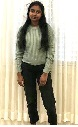
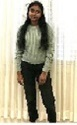
added comments and resized image

diff --git a/ShriyaRudrashetty.java b/ShriyaRudrashetty.java
@@ -1,20 +1,19 @@
-
+ 
 import greenfoot.*; 
 import java.net.*; 
 import java.awt.*;// (World, Actor, GreenfootImage, Greenfoot and MouseInfo)
 
 /**
- * The KilgoreTrout class can be used as a model for your own class that represents you and your seating location in AP CSA
+ * The ShriyaRudrashetty class represents Shriya Rudrashetty and her seating location. It included an animation and a lesson.
  * 
- * @author Mr. Kaehms
- * @version 2.0 Aug 13, 2019
- * @version 3.0 July 21, 2020
+ * @author Shriya Rudrashetty
+ * @version 2.0 8/7/2020
  */
 public class ShriyaRudrashetty extends Student implements SpecialInterestOrHobby
 {
 
     /**
-     * Constructor for the KilgoreTrout class.
+     * Constructor for the ShriyaRudrashetty class.
      * Constructors are special methods with the same exact name as the class name.  
      * Constructors to not have return types.
      * Constructors can be overloaded. This means we can call a constructor with different sets of parameter
@@ -26,27 +25,31 @@ public class ShriyaRudrashetty extends Student implements SpecialInterestOrHobby
      * 
      */
     public ShriyaRudrashetty(String f, String l, int r, int s) {
-        firstName=f;
+        //parameters
+        firstName=f; 
         lastName=l;
         myRow=r;
         mySeat=s;
-        portraitFile=f.toLowerCase()+l.toLowerCase()+".JPG";    // Make sure to name your image files firstlast.jpg, all lowercase!!!
-        standingFile=firstName.toLowerCase()+ lastName.toLowerCase()+"-standing.JPG";
-        soundFile=f.toLowerCase()+l.toLowerCase()+".wav";  // Make sure to name your sound files firstlast.wav, all lowercase!!!
-        setImage(portraitFile);
-        sitting=true;
+        portraitFile=f.toLowerCase()+l.toLowerCase()+".JPG"; //this is to find the correct image for the portrait   
+        standingFile=firstName.toLowerCase()+ lastName.toLowerCase()+"-standing.JPG"; //find the correct standing up image
+        soundFile=f.toLowerCase()+l.toLowerCase()+".wav"; //find the correct sound file to play
+        setImage(portraitFile); //set the image to the portrait file
+        sitting=true; //sitting is set to true (so don't show standing up image yet)
     }
     /**
      * Default constructor, if you don't pass in a name and seating location
      * Pay attention to how the row and seat variables set the location of the image.  1,1 is the first cell in the upper left
      * of the classroom.
+     * My image is in row 3, seat 3
      */
     public ShriyaRudrashetty() {
+        //string for the first and last name
         firstName="Shriya";
         lastName="Rudrashetty";
-        myRow=1;
-        mySeat=2;
-       // imgFile=firstName.toLowerCase()+ lastName.toLowerCase()+".jpg";
+        //set row and seat number
+        myRow=3;
+        mySeat=3;
+       // based on the first and last name strings above, this helps find the correct image/sounds files which follow the same format
        portraitFile=firstName.toLowerCase()+ lastName.toLowerCase()+".JPG";
        standingFile=firstName.toLowerCase()+ lastName.toLowerCase()+"-standing.JPG";
        soundFile=firstName.toLowerCase()+ lastName.toLowerCase()+".wav";
@@ -55,30 +58,25 @@ public class ShriyaRudrashetty extends Student implements SpecialInterestOrHobby
     }
     
      /**
-     * Act - do whatever the KilgoreTrout actor wants to do. This method is called whenever
+     * Act - do whatever the Shriya Rudrashetty actor wants to do. This method is called whenever
      * the 'Act' or 'Run' button gets pressed in the environment.
+     * Act Method
      */   
     public void act() 
     {
-        // Add your action code here.
         if(Greenfoot.mouseClicked(this)){
-          //  if (sitting){
-                sitting=false;
+                //if the image is clicked on
+                sitting=false; //sitting is false, so switch image to the standing file
                 setImage(standingFile);
                 System.out.println(""); // Print a blank line to create space between any student output.
-                getName();
-                sayName(soundFile);
+                getName(); //print out the correct name, defined above
+                sayName(soundFile); //say the name, using the correct sound file
             
-                myHobby("I like to read books!!");
-            // Create a "special method for your class and put the call here.  You can twirl your image, resize it, 
-            //move it around, change transparancy, or a 
-            // combination of all of those types of actions, or more. Make sure to save the original image if you 
-            //manipulate it, so that you can put it back.
-            // Call the sitDown() method to move back  to your seat
+                myHobby("I like to read books!!"); //display/print out the hobby as well
             
-                specialClass();  // Kilgore Trount's special method... Please write one of your own. You can use this, but please modify it and be creative.
-                provideLesson();
-                sitDown();
+                specialClass(); //call the specialClass method, this is my animation
+                provideLesson(); //call the provideLesson method, this is how I will present my lesson
+                sitDown(); //after all that is done, sit down and switch image back to sitting down
             }
         
     } 
@@ -87,84 +85,80 @@ public class ShriyaRudrashetty extends Student implements SpecialInterestOrHobby
      * Prints the first and last name to the console
      */
     public void getName(){
-        System.out.println("My name is " + firstName + " " + lastName);
+        System.out.println("My name is " + firstName + " " + lastName); //print out the first and last name, defined above
     }
     /**
-     * This method needs to allow the user to interact with the student through a question and answer interface, and provide
-     * some mechanism that allows the student to sit down once the Q&A session ends.  You can use this basic model, or come up
-     * with some additional class and object that represents a blackboard, or a talking cartoon bubble etc. If you provide extra
-     * classes, make sure to fully document so other students can use the same interface.
+     * This method needs to allow the user to interact with the student through a question and answer interface
+     * It also calls the variablesLesson method to teach the lesson
      */
      public void provideLesson(){
-        while (! sitting) {
-        String q=Greenfoot.ask("Are you ready to start (yes/no)");
-        if (q.contains("yes")){
-         // put in your lesson here - you can open up a browser for a screencast
-         // Create a blackboard image and write to it, etc
-         // Use an animated gif and dub over with audio - see "controls/show sound recoder"
-         // from main greenfoot menu for a simple to use soud editor
-        
-         
-        // You can end the lesson and "sitDown" once the lesson is complete, or once
-        // someone answers "yes" to the sitdown question
-            variablesLesson();
+        while (! sitting) { //while the actor is standing up
+        String q=Greenfoot.ask("Are you ready to start (yes/no)"); //start the questioning
+        if (q.contains("yes")){ //if the answer is yes...
+            variablesLesson(); //start the lesson, this calls the variablesLesson method which teaches the lesson
         }
-        else {
-          q=Greenfoot.ask("I don't understand the question... May I sit down?"); 
+        else { //if another input is given
+          q=Greenfoot.ask("I don't understand the question... May I sit down?"); //ask to sit down
         }
-         if (q.equals("yes")){
+         if (q.equals("yes")){ //if the answer is yes, wait and then sit down (switch image back to the sitting down one)
             Greenfoot.delay(10);
             sitDown();
         }
     }
     }
-    public void answerQuestion(){
-        // may not need
+     public void answerQuestion(){
+        //I didn't use this method
     }
     /**
-     * This is a local method specific to the KilgoreTrout class used to animate the character once the image is clicked on.
-     * You should write your own methods to perform your own animation for your character/avatar.
+     * This is used to animate my character when it is clicked on
+     * The image twirls and then grows/shrinks
      */
-    public void specialClass(){
-        //setLocation(0,0);
-        Greenfoot.delay(20);
-        int spinLoop = 72;
-        int spinIteration = 0;
+    public void specialClass(){ //the method is called specialClass
+        Greenfoot.delay(20); //wait 
+        int spinLoop = 72; //I want the process to repeat 72 times, so the image will twirl twice
+        int spinIteration = 0; //start the number of iterations with 0
         for (spinIteration = 0; spinIteration < spinLoop; spinIteration = spinIteration + 1)
+        //start spinIteration at 0 and continue to increment it for as long as it's below the spinLoop number
         {
-            turn(10);
-            Greenfoot.delay(1);
+            turn(10); //turn 10 degrees with each iteration
+            Greenfoot.delay(1); //wait before turning again
         }
-        Greenfoot.delay(20);
+        Greenfoot.delay(20); //wait before starting the next action
         
-        int growLoop = 5;
-        int growIteration = 0;
+        int growLoop = 5; //I want this process to repeat 5 times
+        int growIteration = 0; //start the number of iterations at 0
         for (growIteration = 0; growIteration < growLoop; growIteration = growIteration + 1)
+        //start growIteration at 0 and continue to increment it for as long as it's below the growLoop number
         {
-             GreenfootImage image = getImage();
-             image.scale(image.getWidth()*2, image.getHeight()*2);
-             Greenfoot.delay(10);
+             GreenfootImage image = getImage(); //get the image (the standing up one)
+             image.scale(image.getWidth()*2, image.getHeight()*2); //set the image scale to 2X the width and height
+             Greenfoot.delay(10); //wait before repeating
+             //the image to continue to grow until it is ten times its original size
         }
         
-        int shrinkLoop = 5;
-        int shrinkIteration = 0;
+        int shrinkLoop = 5; //I want this process to repeat 5 times
+        int shrinkIteration = 0; //start the number of iterations at 0
         for (shrinkIteration = 0; shrinkIteration < shrinkLoop; shrinkIteration = shrinkIteration + 1)
+        //start shrinkIteration at 0 and continue to increment it for as long as it's below the shrinkLoop number
         {
-             GreenfootImage image = getImage();
-             image.scale(image.getWidth()/2, image.getHeight()/2);
-             Greenfoot.delay(10);
+             GreenfootImage image = getImage(); //get the image (the modified standing up one)
+             image.scale(image.getWidth()/2, image.getHeight()/2); //decrease the image scale by a factor of 3
+             Greenfoot.delay(10); //wait
+             //this basically undos the changes done in the previous step so the image returns to its original dimensions
         }
-        Greenfoot.delay(100);
+        Greenfoot.delay(100); //wait before asking (provideLesson method)
     }
     
-    public void variablesLesson() {
-        sitting = false;
-        Greenfoot.delay(10);
+    public void variablesLesson() { //this method provides the variables lesson
+        sitting = false; //the image remains standing
+        Greenfoot.delay(10); //wait
+        //the below section of code opens up another window with the video lesson
         try
         {
           Desktop.getDesktop().browse(new URL("https://drive.google.com/file/d/1lu72UjM4JoWIJnIByJckuli2tlNB4lG1/view?usp=sharing").toURI());
         }      
         catch (Exception e) {}
+        //wait
         Greenfoot.delay(10);
         
     }
@@ -174,7 +168,7 @@ public class ShriyaRudrashetty extends Student implements SpecialInterestOrHobby
      * tests on abstract classes and interfaces, but it is good to know about them
      */
      public void myHobby(String s) {
-         System.out.println(s);
+         System.out.println(s); //this is to print my hobby to the console
 }
 
 }
